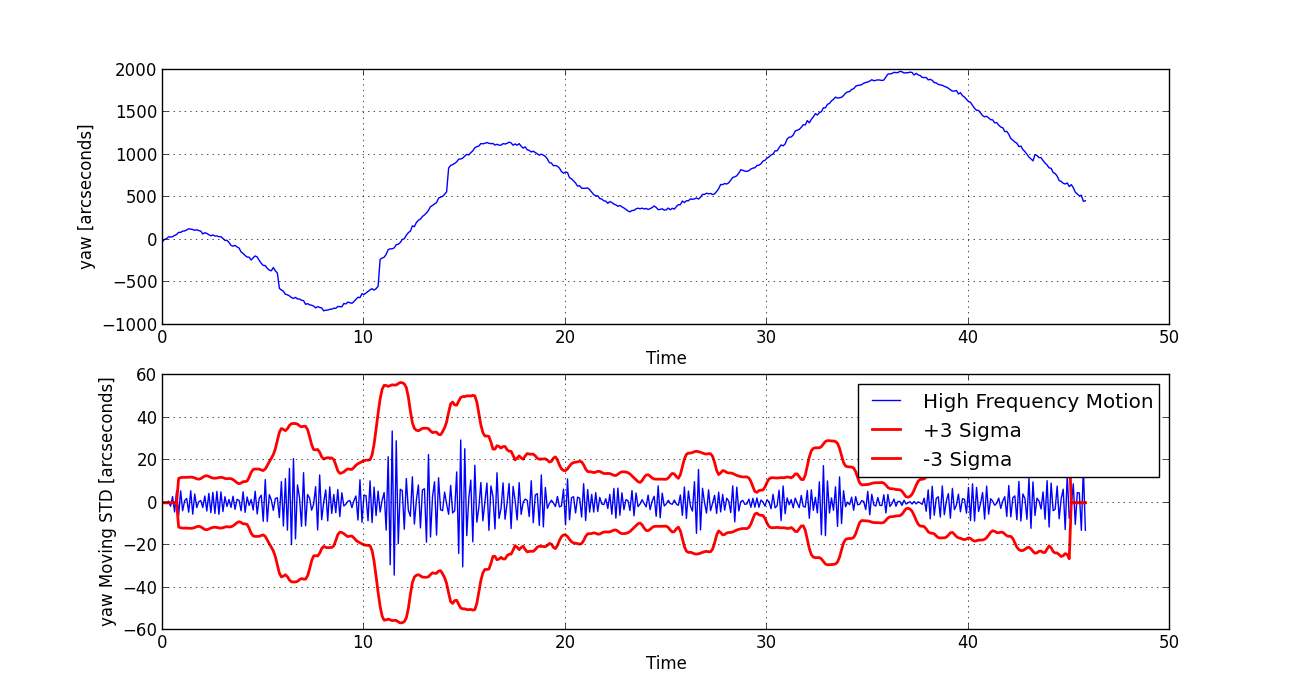
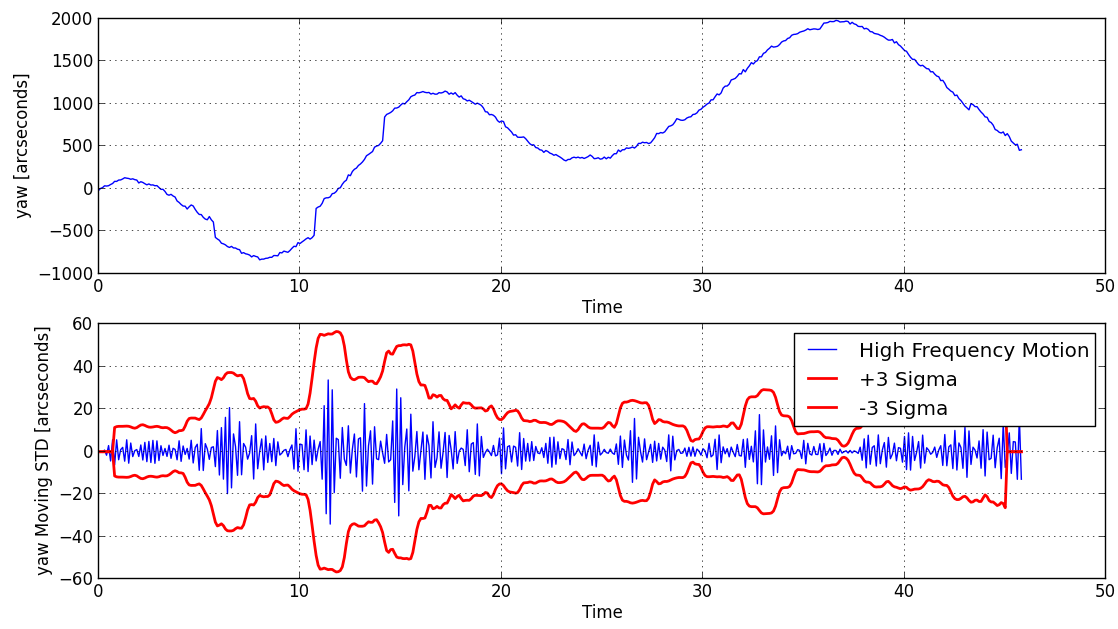
finished results

diff --git a/IEEE/IEEE_paper.tex b/IEEE/IEEE_paper.tex
@@ -245,7 +245,7 @@ On September 22nd, 2012 the DayStar system flew aboard the Wallops Arc Second Po
     \label{fig:flight}
 \end{figure}
 
-Operation was split into three separate modes: daytime, twilight, and nighttime. During daytime and nighttime operation, bursts of images were taken at a rate of 10Hz for durations of 20 and 50 respectively. These bursts were taken with varying gain and exposure times. During twilight operation 5 second bursts were taken and the camera settings were changed more rapidly to capture the effect of decreasing background brightness. In total, ~460 GB of images and health and status data were collected.
+Operation was split into three separate modes: daytime, twilight, and nighttime. During daytime and nighttime operation, bursts of images were taken at a rate of 10Hz for durations of 20 and 50 seconds respectively. These bursts were taken with varying gain and exposure times. During twilight operation 5 second bursts were taken and the camera settings were changed more rapidly to capture the effect of decreasing background brightness. In total, ~460 GB of images and health and status data were collected.
 
 %-------------------------------------------------------------------------------------------------------
 %-------------------------------------------------------------------------------------------------------
@@ -253,17 +253,17 @@ Operation was split into three separate modes: daytime, twilight, and nighttime.
 
 \subsection{Methodology}
 
-All data obtained from the test flight came in the form of self-measured diagnostics, tied to bursts of raw images. DayStar operated at 10Hz for all burst configurations. Individual bursts are analyzed for tracking performance. The general approach is to first correct each raw image for sensor biases. Next, stars are correlated between frames, and their changes in location are translated into three dimensional space. These changes are quantified, and analyzed to provide a measure of tracking performance. This process is the same for all burst configurations and modes of operation.  
+All data obtained from the test flight came in the form of self-measured diagnostics, tied to bursts of raw images. DayStar operated at 10Hz for all burst configurations. Individual bursts are analyzed for tracking performance. The general approach is to first correct each raw image for sensor biases. Next, stars are correlated between frames, and their changes in location are translated into three dimensional space. These changes are quantified, and analyzed to provide a measure of tracking performance. This process is the same for all burst configurations and modes of operation.
 
-The image sensor on DayStar is able to simultaneously output two separate images. Each is the result of different gain settings within the sensor and are referred to as high-gain and low-gain images. The intension is for the user to combine the two images to obtain a final image with increased dynamic range. This was not in the scope of DayStar's test flight. For all analysis, just the high-gain images were used. They contain less read noise and produced flatter, more consistent results throughout the flight. 
+The image sensor on DayStar is able to simultaneously output two separate images. Each is the result of different gain settings within the sensor and are referred to as high-gain and low-gain images. The intension is for the user to combine the two images to obtain a final image with increased dynamic range. This was not in the scope of DayStar's test flight. For all analysis, just the high-gain images were used. They contain less read noise and produced flatter, more consistent results throughout the flight.
 
 
 \subsubsection{Image Correction}
 
-Before DayStar's test images could be analyzed for accuracy, they first had to be corrected for sensor biases. This is referred to generically as flat-field correction \cite{flatfield}. 
+Before DayStar's test images could be analyzed for accuracy, they first had to be corrected for sensor biases. This is referred to generically as flat-field correction \cite{flatfield}.
 
-The sCMOS sensor contains two independent sensor halves. Each half contains columns of pixels read out through different on-chip amplifiers, with both dark and exposed areas. To correct for varying biases in each amplifier, referred to commonly as \emph{fixed pattern noise} \cite{olympusmicro}, every dark column was compared to a composite robust mean of the entire dark area. This yielded a multiplication factor for each column, describing the difference between each column and the overall dark area. When applied, these factors act to normalize all column amplifiers as if a uniform amplification was applied everywhere. This process is repeated for the top and bottom sensor halves. Then a similar process, where the columns in each half were compared with a robust average of both halves. This normalizes gains between the two halves, and yields a full image, with uniform amplification. Typically, correcting for fixed pattern noise is done by subtracting dark frames from every readout frame. Due to readout speed 
-requirements and camera design, this was not possible for the DayStar team. In addition, this process must be repeated for each image. CMOS temperature sensitivity and electrical fluctuations in the system cause gain factors to change, even over short image bursts. 
+The sCMOS sensor contains two independent sensor halves. Each half contains columns of pixels read out through different on-chip amplifiers, with both dark and exposed areas. To correct for varying biases in each amplifier, referred to commonly as \emph{fixed pattern noise} \cite{olympusmicro}, every dark column was compared to a composite robust mean of the entire dark area. This yielded a multiplication factor for each column, describing the difference between each column and the overall dark area. When applied, these factors act to normalize all column amplifiers as if a uniform amplification was applied everywhere. This process is repeated for the top and bottom sensor halves. Then a similar process, where the columns in each half were compared with a robust average of both halves. This normalizes gains between the two halves, and yields a full image, with uniform amplification. Typically, correcting for fixed pattern noise is done by subtracting dark frames from every readout frame. Due to readout speed
+requirements and camera design, this was not possible for the DayStar team. In addition, this process must be repeated for each image. CMOS temperature sensitivity and electrical fluctuations in the system cause gain factors to change, even over short image bursts.
 
 \begin{figure}
     \centering
@@ -272,11 +272,11 @@ requirements and camera design, this was not possible for the DayStar team. In a
     \label{fig:FlatField}
 \end{figure}
 
-Figure \ref{fig:FlatField} shows an original and flat-fielded image processed from one of DayStar's bursts. Where the raw image contains notable column differences, and overall differences between top and bottom halves, the corrected image is mostly flat. This normalization process is important, because star recognition algorithms assume a uniform, flat background. From which, stars can be more easily identified. 
+Figure \ref{fig:FlatField} shows an original and flat-fielded image processed from one of DayStar's bursts. Where the raw image contains notable column differences, and overall differences between top and bottom halves, the corrected image is mostly flat. This normalization process is important, because star recognition algorithms assume a uniform, flat background. From which, stars can be more easily identified.
 
 \subsubsection{Star Identification and Matching}
 
-The analysis of DayStar's test flight data began by finding stars in the images collected. Stars were located in images by first estimating the image background using a robust median. Pixels and groups of pixels that surpassed this background median by a threshold were identified as potential stars. Once a potential star was identified, a region of interest in the image around a potential star was defined. The column bias inherent in CMOS images was subtracted from the columns in the region of interest by subtracting the robust median (to 2 sigma) of each column from that column. If the potential star was large enough to be considered a star rather than noise, a more precise centroid for that star was computed using an intensity weighted center of gravity centroiding algorithm. A comparison of the three algorithms explored for this refined centroiding can be seen in Figure \ref{fig:centroidmethods}. 
+The analysis of DayStar's test flight data began by finding stars in the images collected. Stars were located in images by first estimating the image background using a robust median. Pixels and groups of pixels that surpassed this background median by a threshold were identified as potential stars. Once a potential star was identified, a region of interest in the image around a potential star was defined. The column bias inherent in CMOS images was subtracted from the columns in the region of interest by subtracting the robust median (to 2 sigma) of each column from that column. If the potential star was large enough to be considered a star rather than noise, a more precise centroid for that star was computed using an intensity weighted center of gravity centroiding algorithm. A comparison of the three algorithms explored for this refined centroiding can be seen in Figure \ref{fig:centroidmethods}.
 \begin{figure}[H]
     \centering
     \includegraphics[width = 3.3in]{\rootdir centroidmethods.png}
@@ -303,7 +303,7 @@ It is also clear that the star identification picked up false stars; this is see
 
 \subsubsection{Rotation Between Frames and Accuracy}
 
-With the stars identified in each frame identified, the next step was to correlate stars between frames. This was done by searching between one frame and the next for star locations within a search radius relative to the first frame. In Figure \ref{fig:matchstarpaths} and Figure \ref{fig:matchnumstars} the star locations of matched stars and the number of stars matched for the same 500 image burst are shown.  
+With the stars identified in each frame identified, the next step was to correlate stars between frames. This was done by searching between one frame and the next for star locations within a search radius relative to the first frame. In Figure \ref{fig:matchstarpaths} and Figure \ref{fig:matchnumstars} the star locations of matched stars and the number of stars matched for the same 500 image burst are shown.
 \begin{figure}
     \centering
     \includegraphics[width = 3.3in]{\rootdir matchstarpaths.png}
@@ -317,7 +317,7 @@ With the stars identified in each frame identified, the next step was to correla
     \label{fig:matchnumstars}
 \end{figure}
 
-The number of stars matched between frames is lower than the number of stars detected. This makes sense because the false noise stars or fainter stars identified periodically are not correlated between frames. With star locations correlated between images, the next step was to calculate 3D projections of the optical frame and determine a quaternion rotation between frames.   
+The number of stars matched between frames is lower than the number of stars detected. This makes sense because the false noise stars or fainter stars identified periodically are not correlated between frames. With star locations correlated between images, the next step was to calculate 3D projections of the optical frame and determine a quaternion rotation between frames.
 
 Before tracking algorithms can be run, DayStar's 2D centroids must be transformed into 3D vectors pointing from the DayStar sensor, down the optical bore-sight, to each star center. This transformation is computed by:
 \begin{equation}
@@ -329,53 +329,51 @@ The matching star vectors between frames can be used to find the attitude rotati
 
 Even though DayStar's inertial attitude is unknown, the variability of relative attitude changes describes DayStar's tracking precision. However, this assumes that the WASP platform was totally stationary during the entirety of the burst. Because we know this is not true, we assume that the motion of the WASP gondola can mostly be characterized by low frequency modes, and that DayStar's attitude variability is at a much higher frequency. To isolate the two effects filtering was performed in the frequency domain. For the first step in filtering, quaternion rotations were converted into the following Euler angles: yaw, pitch, and roll.
 
-The angles were then transformed into the frequency domain, using Fast Fourier transforms. A high-pass filter was then applied to remove frequencies lower than 1.5 Hz. Transforming back into the time domain, the roll, pitch, and yaw vectors now represent the changes in an attitude solution, minus the slow movement of the balloon gondola itself.
+The angles were then transformed into the frequency domain, using Fast Fourier transforms. A high-pass filter was then applied to remove frequencies lower than 1.5 Hz. Transforming back into the time domain, the roll, pitch, and yaw vectors now represent the changes in an attitude solution, minus the slow movement of the balloon gondola itself.\pagebreak
 
 
 %-------------------------------------------------------------------------------------------------------
+\onecolumn
+\begin{figure*}[hp]
+    \centering
+    \includegraphics[height=3.1in]{\rootdir YawTracking.png}
+    \includegraphics[height=3.1in]{\rootdir PitchTracking.png}
+    \includegraphics[height=3.1in]{\rootdir RollTracking.png}
+    \caption{Yaw, pitch, and roll signal and filtering using FFT.}
+    \label{fig:Filtering}
+\end{figure*}
+
+\twocolumn
 \subsection{Nighttime Results}
+Figure \ref{fig:Filtering} shows plots illustrating the filtering process for each Euler angle for a batch of nighttime images. Time-domain signals are on the leftmost subplots, and frequency-domain power spectrum plots are on the rightmost subplots, with original signals on top and filtered signals on the bottom.
 
-Figure \ref{fig:Yaw Filtering}, Figure \ref{fig:Pitch Filtering}, and \ref{fig:Roll Filtering} are plots illustrating the filtering process for each Euler angle for a batch of nighttime images. Time-domain signals are on the leftmost subplots, and frequency-domain power spectrum plots are on the rightmost subplots, with original signals on top and filtered signals on the bottom.
-\begin{figure}[H]
-    \centering	
-    \includegraphics[width=3.3in]{\rootdir YawTracking.png}
-    \caption{Yaw signal and filtering using FFT.}
-    \label{fig:Yaw Filtering}
-\end{figure}
+It is apparent that majority of the low frequency motion is found below 2 hz. Assuming that this motion is primarily due to the dynamics of the balloon and payload, an elliptical highpass filter is implemented at 3.5 hz to isolate the high frequency oscillations. Motion above 3.5 Hz is assumed to represent the performance of the DayStar system and its algorithms alone.
+
+The motion of the balloon gondola is clearly visible in the yaw, pitch, and roll plots. Throughout the 50 second burst, the gondola appears to have undergone 3 cycles mainly consisting of yaw.
+
+The standard deviation of the of the filtered yaw, pitch, and roll for this 500 image burst is:
+
+\begin{align*}
+    \sigma_{Yaw} = 7.825 \ arcseconds \\
+    \sigma_{Pitch} = 0.319 \ arcseconds \\
+    \sigma_{Roll} = 0.361 \ arcseconds
+\end{align*}
+
+These results can be misleading because the standard deviation of the pitch, roll, and yaw varied over time. A plot of the filtered results and a 10 datapoint rolling $3\sigma$ standard deviation is shown in Figure \ref{fig:RollingSTD}.
 
 \begin{figure}[H]
     \centering
-    \includegraphics[width=3.3in]{\rootdir PitchTracking.png}
-    \caption{Pitch signal and filtering using FFT.}
-    \label{fig:Pitch Filtering}
+    \includegraphics[width=3.5in]{\rootdir YawMotion.png}
+    \caption{Average yaw standard deviation varies over time.}
+    \label{fig:RollingSTD}
 \end{figure}
 
-\begin{figure}[H]
-    \centering
-    \includegraphics[width=3.3in]{\rootdir RollTracking.png}
-    \caption{Roll signal and filtering using FFT.}
-    \label{fig:Roll Filtering}
-\end{figure}
-
-It is apparent that low frequency oscillations are removed by the filtering process. The motion of the balloon gondola is clearly visible in the yaw, pitch, and roll plots. Throughout the 50 second burst, the gondola appears to have undergone about 3 swinging cycles. When combined into a video, that motion was clearly visible and matches what the plots show. 
-
-The standard deviation of the of the yaw, pitch, and roll is:
-\begin{displaymath}\large
-    \boxed{\sigma_{Yaw} = 7.825 arcseconds}
-\end{displaymath}
-\begin{displaymath}\large
-    \boxed{\sigma_{Pitch} = 0.319 arcseconds}
-\end{displaymath}
-\begin{displaymath}\large
-    \boxed{\sigma_{Roll} = 0.361 arcseconds}
-\end{displaymath}
-
-
+The standard deviation of the yaw was as low as ~2 arcseconds during some portions of this burst. Periods of worst performance occur when the gondola changes direction most drastically. This coarse yaw control was provided by a 1 degree yaw corrector on the balloon flight string. It is possible that high frequency noise from this motor is the reason for inflation of the standard deviation of the yaw, pitch, and roll over time.
 
 %-------------------------------------------------------------------------------------------------------
 \subsection{Daytime Results}
 
-Unlike the nighttime images, daytime images were heavily affected by high sky background levels. This caused the high-gain images to saturate, so only the low-gain images were usable. These images displayed much more column bias than their high-gain counterparts, degrading the signal-to-noise of stars in the daytime images. 
+Unlike the nighttime images, daytime images were heavily affected by high sky background levels. This caused the high-gain images to saturate, so only the low-gain images were usable. These images display much more column bias than their high-gain counterparts, degrading the signal-to-noise of stars in the daytime images.
 \begin{figure}[H]
     \centering
     \includegraphics[width=3.6in]{\rootdir day_raw.png}
@@ -391,7 +389,7 @@ Figure \ref{fig:day_raw} shows a raw image taken during daytime. High levels of 
     \label{fig:day_processed}
 \end{figure}
 
-Figure \ref{fig:day_zoom} shows one of the stars seen in the processed daytime image. While residual column noise is still evident, the shape of the star and its high peak value make it identifiable. For this burst of images, the three stars remain visible in most frames. However, some frames only yield two of the stars due to increased noise, which makes consistent matching impossible. 
+Figure \ref{fig:day_zoom} shows one of the stars seen in the processed daytime image. While residual column noise is still evident, the shape of the star and its high peak value make it identifiable. For this burst of images, the three stars remain visible in most frames. However, some frames only yield two of the stars due to increased noise, which makes consistent matching impossible.
 
 \begin{figure}[H]
     \centering
